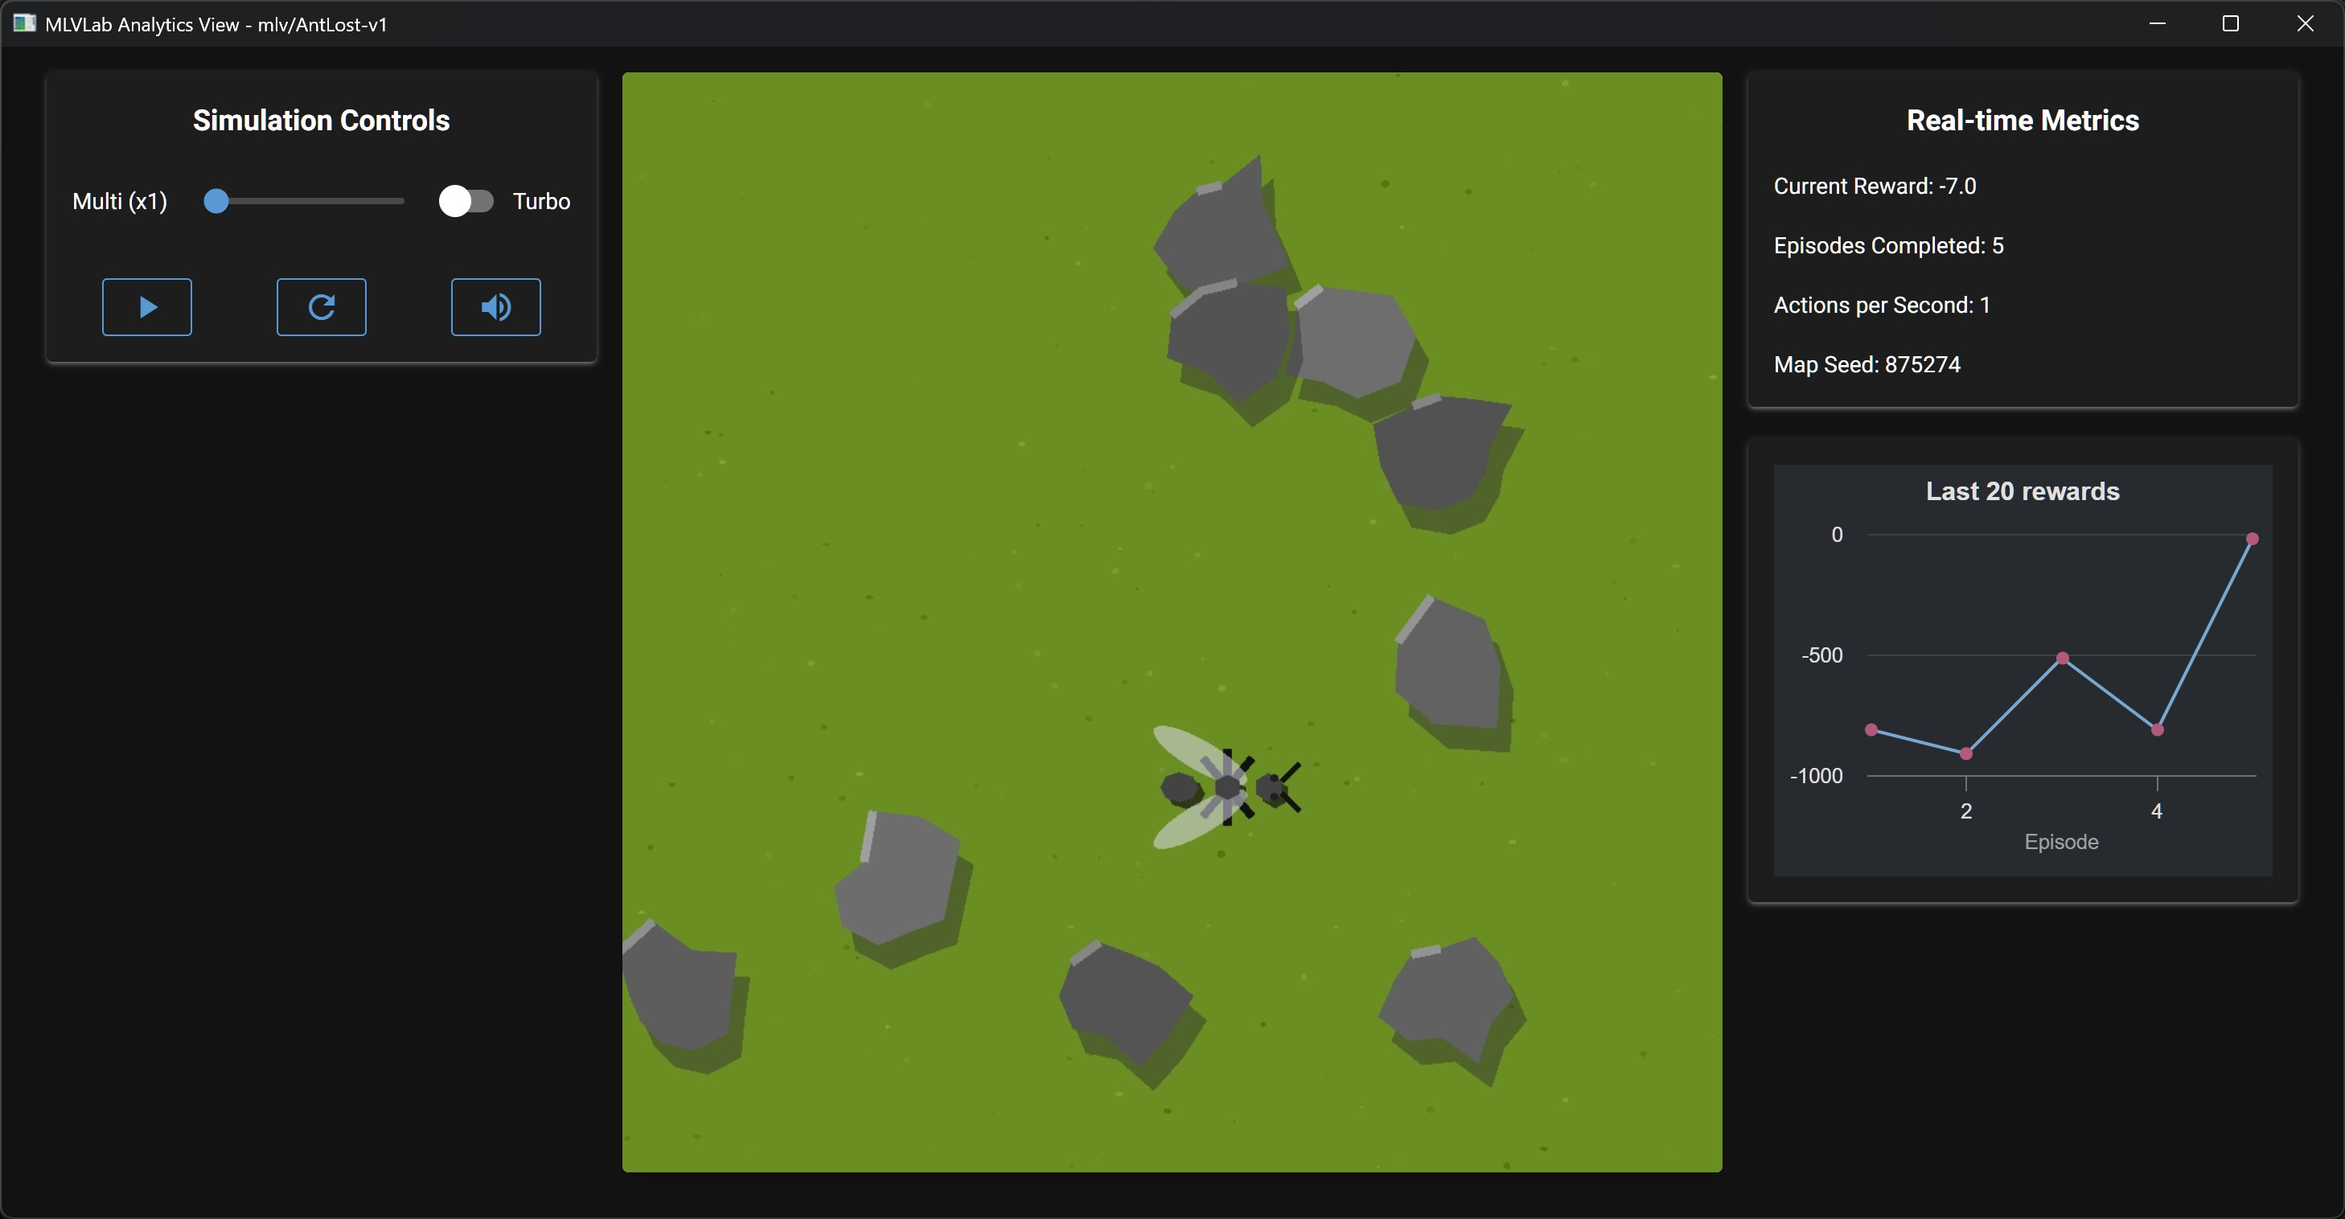
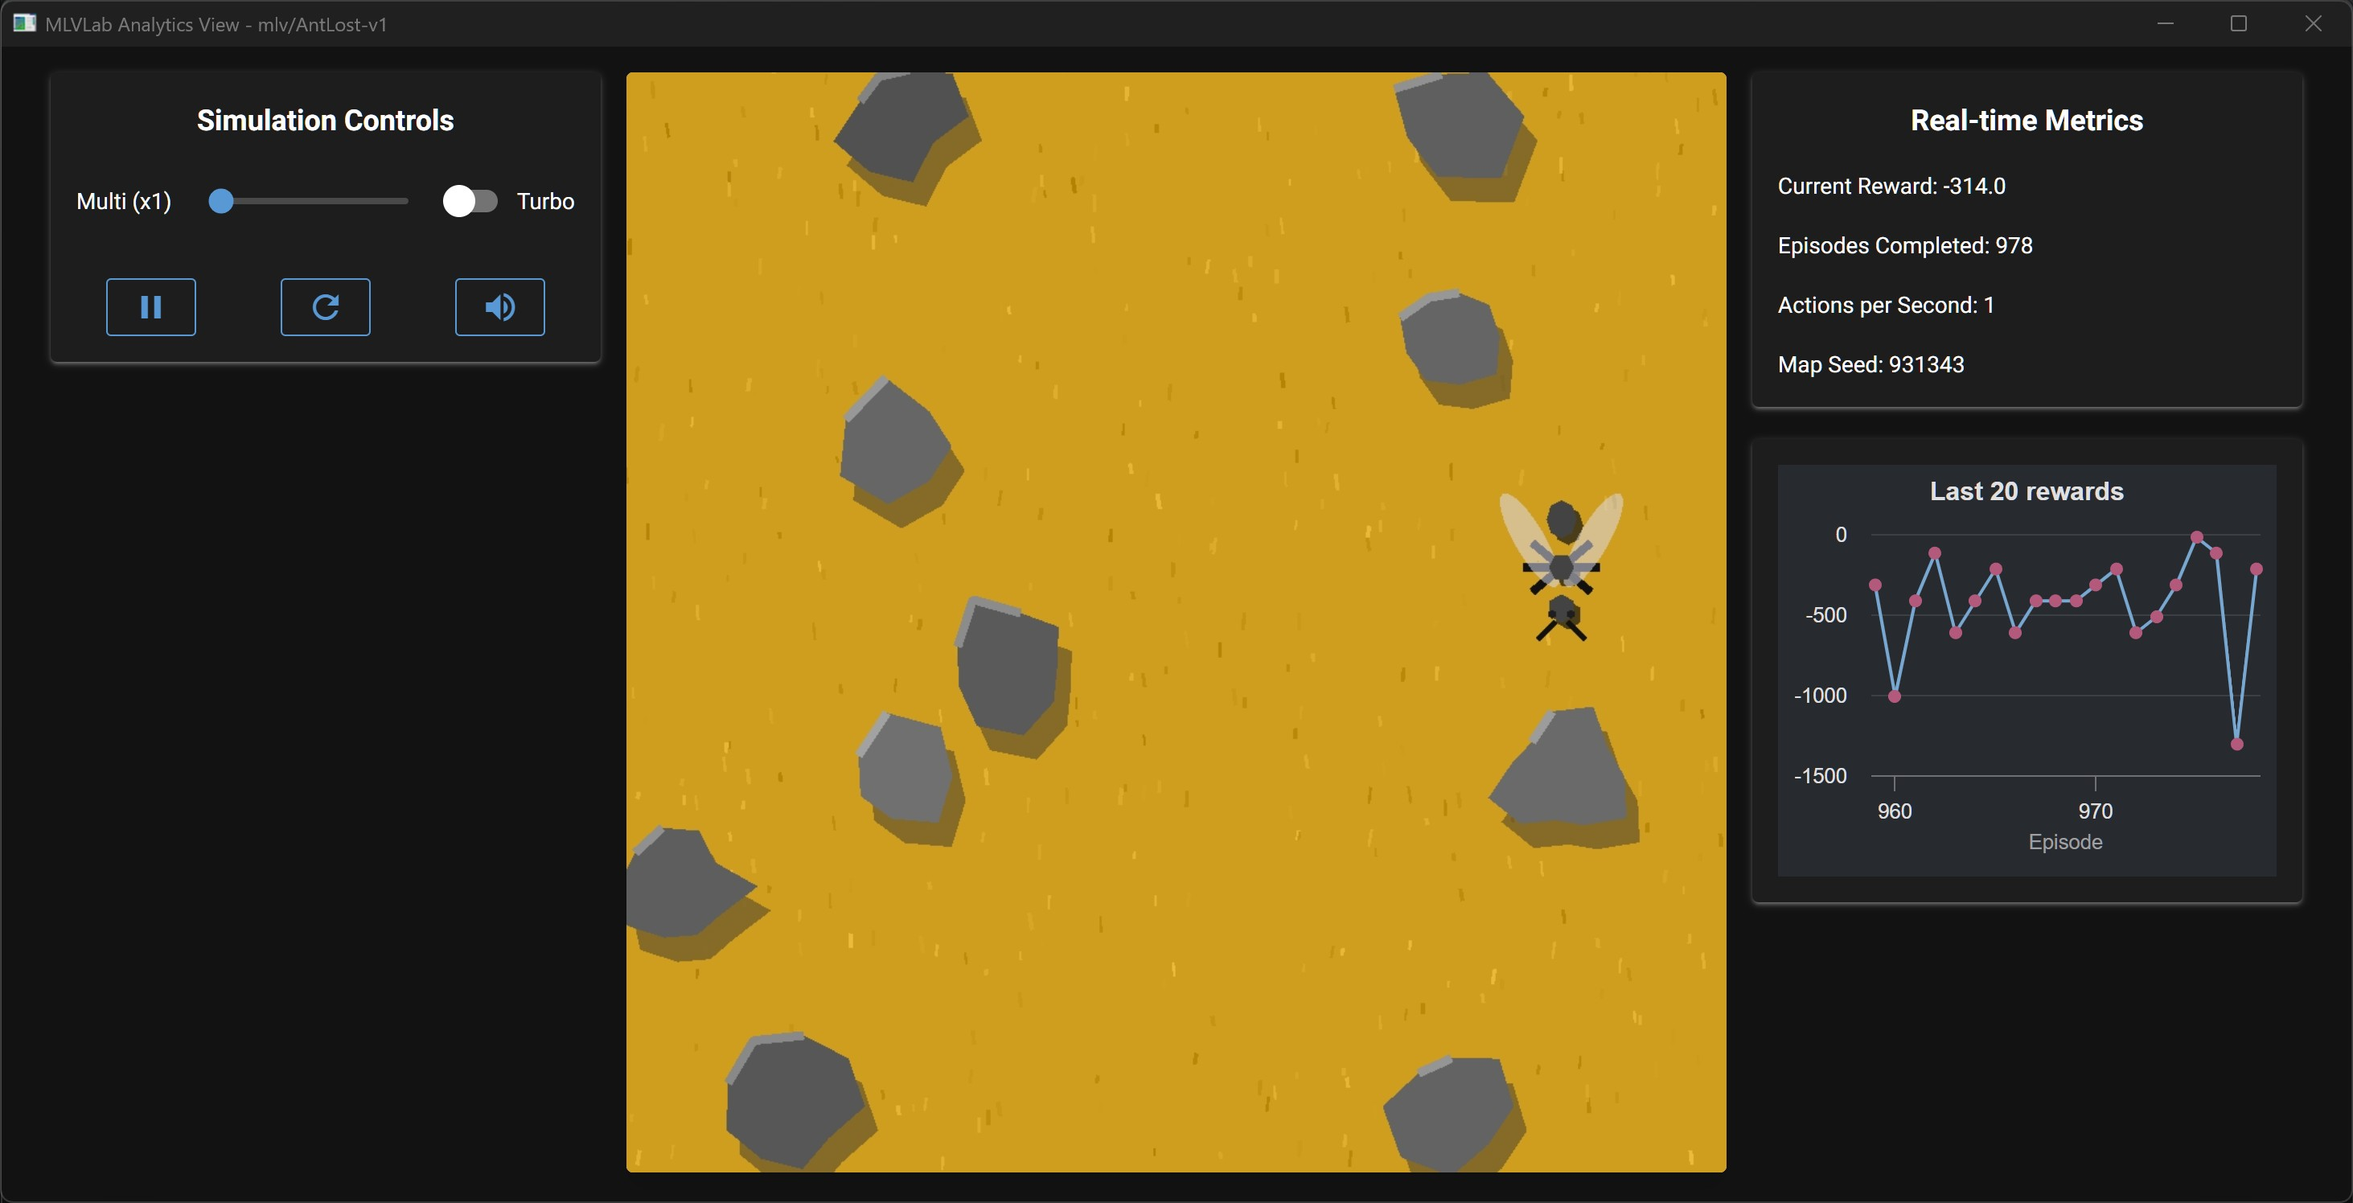
Actualización de la documentación en `README.md` y `README_es.md` para los entornos `AntLost-v1`, `AntScout-v1` y `AntMaze-v1`, mejorando la claridad de las descripciones y añadiendo nuevas imágenes de vista previa. Se realizaron ajustes en los colores de renderizado en `renderer.py` y se modificaro

diff --git a/mlvlab/envs/ant_lost_v1/renderer.py b/mlvlab/envs/ant_lost_v1/renderer.py
@@ -45,11 +45,11 @@ class ArcadeRenderer:
         self.WIDTH = 0
         self.HEIGHT = 0
 
-        # Paleta de colores
-        self.COLOR_GRASS = (107, 142, 35)
+        # Paleta de colores actualizada para un look de "pradera de verano"
+        self.COLOR_GROUND = (207, 158, 30)  # Amarillo Trigo
         self.COLOR_ANT = (67, 67, 67)
         self.COLOR_OBSTACLE = (100, 100, 100)
-        self.COLOR_PARTICLE_DUST = (210, 180, 140)
+        self.COLOR_PARTICLE_DUST = (188, 164, 93)  # Polvo más acorde
 
         # Estado de animación
         self.ant_display_pos = None
@@ -75,6 +75,25 @@ class ArcadeRenderer:
 
         self.arcade = None
 
+    def _initialize(self, game: AntGame, render_mode: str):
+        self._lazy_import_arcade()
+        self.game = game
+        self.WIDTH = game.grid_size * self.CELL_SIZE
+        self.HEIGHT = game.grid_size * self.CELL_SIZE
+        if self.window is None:
+            title = "Ants Saga - Errant Drone - MLVisual®"
+            visible = render_mode == "human"
+            self.window = self.arcade.Window(
+                self.WIDTH, self.HEIGHT, title, visible=visible)
+            if not visible:
+                self.window.set_visible(False)
+            # Usamos el nuevo color de fondo
+            self.arcade.set_background_color(self.COLOR_GROUND)
+
+        self.ant_display_pos = list(game.ant_pos.astype(float))
+        self.ant_current_angle = 0
+        self.initialized = True
+
     def _lazy_import_arcade(self):
         if self.arcade is None:
             try:
@@ -96,7 +115,8 @@ class ArcadeRenderer:
                 self.WIDTH, self.HEIGHT, title, visible=visible)
             if not visible:
                 self.window.set_visible(False)
-            self.arcade.set_background_color(self.COLOR_GRASS)
+            # Usamos el nuevo color de fondo
+            self.arcade.set_background_color(self.COLOR_GROUND)
 
         self.ant_display_pos = list(game.ant_pos.astype(float))
         self.ant_current_angle = 0
@@ -249,20 +269,34 @@ class ArcadeRenderer:
         except AttributeError:
             rng = np.random.RandomState(abs(current_hash) % (2**32))
 
-        for _ in range(self.game.grid_size * self.game.grid_size * 2):
+        # Dibujamos detalles que parecen hierba seca o trigo
+        for _ in range(self.game.grid_size * self.game.grid_size * 4):  # Aumentamos la densidad
             cx = rng.uniform(0, self.WIDTH)
             cy = rng.uniform(0, self.HEIGHT)
-            r = rng.uniform(1, 4)
-            try:
-                shade = rng.integers(-25, 25)
-            except AttributeError:
-                shade = rng.randint(-25, 25)
+            length = rng.uniform(3, 8)
+            angle_deg = rng.uniform(-10, 10)  # Ligera variación del ángulo
+            angle_rad = math.radians(90 + angle_deg)
 
-            mote_color = (max(0, min(255, self.COLOR_GRASS[0]+shade)),
-                          max(0, min(255, self.COLOR_GRASS[1]+shade)),
-                          max(0, min(255, self.COLOR_GRASS[2]+shade)))
-            self.arcade.draw_ellipse_filled(
-                cx, cy, r, r * rng.uniform(0.5, 1.0), mote_color)
+            end_x = cx + math.cos(angle_rad) * length
+            end_y = cy + math.sin(angle_rad) * length
+
+            try:
+                shade = rng.integers(-35, 35)
+                # AQUÍ ESTÁ LA CORRECCIÓN:
+                # Usamos integers() para el nuevo API
+                alpha = rng.integers(150, 220)
+            except AttributeError:
+                shade = rng.randint(-35, 35)
+                # Y randint() como alternativa para el API antiguo
+                alpha = rng.randint(150, 220)
+
+            mote_color = (max(0, min(255, self.COLOR_GROUND[0]+shade)),
+                          max(0, min(255, self.COLOR_GROUND[1]+shade)),
+                          max(0, min(255, self.COLOR_GROUND[2]+shade)),
+                          alpha)  # Alpha para dar profundidad
+
+            self.arcade.draw_line(cx, cy, end_x, end_y,
+                                  mote_color, line_width=rng.uniform(1.0, 2.0))
 
         for obs_x, obs_y in self.game.obstacles:
             cx, cy = self._cell_to_pixel(obs_x, obs_y)

diff --git a/mlvlab/envs/ant_maze_v1/env.py b/mlvlab/envs/ant_maze_v1/env.py
@@ -61,7 +61,7 @@ class AntMazeEnv(gym.Env):
                  render_mode=None,
                  grid_size=15,  # Aumentamos el tamaño por defecto para el laberinto
                  reward_goal=100,
-                 reward_wall=-5,  # La penalización por chocar es menor, ya que es esperable
+                 reward_wall=-10,  # La penalización por chocar es menor, ya que es esperable
                  reward_move=-1,
                  # Flag para activar la funcionalidad AntShift (Punto 7)
                  enable_ant_shift=False

diff --git a/mlvlab/envs/ant_maze_v1/view.py b/mlvlab/envs/ant_maze_v1/view.py
@@ -104,7 +104,6 @@ def main(enable_ant_shift=False):
     # Configuración de la vista interactiva (Punto 3)
     view = AnalyticsView(
         trainer=trainer,
-        title="Dungeons & Pheromones (AntMaze)",
         left_panel=[
             ui.SimulationControls(
                 includes=["speed", "turbo"],

diff --git a/mlvlab/envs/ant_maze_v1/README.md b/mlvlab/envs/ant_maze_v1/README.md
@@ -1,0 +1,168 @@
+# AntMaze-v1 (Dungeons & Pheromones): Usage Guide
+
+[![en](https://img.shields.io/badge/Lang-EN-red.svg)](./README.md)
+[![es](https://img.shields.io/badge/Lang-ES-lightgrey.svg)](./README_es.md)
+
+This file documents the `mlv/AntMaze-v1` environment, also known as **Dungeons & Pheromones**.
+
+<img src="../../../docs/ant_maze_v1/mode_view_en.jpg" alt="view mode" width="100%">
+
+## Description
+
+In `AntMaze`, the student takes control of the learning process. An ant must navigate through a procedurally generated dungeon (maze) to find the exit. The goal is not just to solve the maze, but to understand how manipulating the fundamental hyperparameters of Reinforcement Learning (Alpha, Gamma, Epsilon) affects the agent's behavior and learning speed in real-time.
+
+This simulation is designed to provide an interactive understanding of the exploration vs. exploitation dilemma and the impact of learning rate and discount factor.
+
+---
+
+## Thematic Interpretation
+
+The hyperparameters are themed to match the dungeon scenario:
+
+*   **Alpha (Learning Rate) → Pheromone Intensity:** How strongly the ant reinforces a path after taking it. A high value means rapid adaptation to new information; a low value means gradual learning.
+*   **Gamma (Discount Factor) → Future Vision:** How much the ant values future rewards (the exit) compared to immediate ones. A high value encourages long-term planning, crucial in mazes.
+*   **Epsilon (Exploration Rate) → Bravery (Exploration):** The probability that the ant ignores its knowledge (pheromones) and tries a new random path.
+
+---
+
+## Technical Specifications
+
+### Environment Configuration
+
+The environment can be customized when creating it:
+
+*   `grid_size`: The size of the square dungeon (e.g., 15 for 15x15). Default is 15.
+*   If `grid_size >= 10`, a complex maze is generated using Recursive Backtracking and BFS to ensure a challenging but always valid path.
+*   If `grid_size < 10`, a simpler scenario is generated with random walls.
+*   `enable_ant_shift`: (Boolean) If `True`, activates functionality for the `AntShift` simulation, adding a 5th action.
+
+### Observation Space
+
+```python
+Box(0, GRID_SIZE-1, (2,), int32)
+```
+
+*   **Meaning:** Vector `[x, y]` representing the ant's position.
+
+### Action Space
+
+```python
+Discrete(4)  # Or Discrete(5) if enable_ant_shift=True
+```
+
+*   `0`: Up, `1`: Down, `2`: Left, `3`: Right.
+*   `4`: (AntShift only) Activate map change and Q-Table lock (Key 'L').
+
+---
+
+## Environment Dynamics
+
+### Rewards
+
+*   **`+100`**: For reaching the dungeon exit.
+*   **`-10`**: For hitting a wall.
+*   **`-1`**: For each step taken.
+
+### Episode End
+
+*   **`terminated = True`**: The agent reaches the exit.
+*   **`truncated = True`**: The maximum step limit is reached.
+
+**Note:** If the ant hits a wall, it receives the penalty but **the episode does not end**. The ant remains in its current cell.
+
+### Reset Behavior
+
+When calling `reset()` without `seed`, the current dungeon is preserved and the ant returns to the start. A new dungeon is only generated if a `seed` is provided.
+
+---
+
+## Pheromone Visualization (Debug Mode)
+
+When activating `debug` mode (Show Pheromones) in the interactive view, the learned Q-Table is visualized as a "pheromone trail". The color varies from pale pink (low value) to intense pink (high value), indicating the ant's preferred path.
+
+---
+
+## Interaction (View Mode) - Recommended
+
+The main method to interact with this environment is through `view` mode, which provides real-time controls for hyperparameters.
+
+```bash
+# Start MLVisual shell
+uv run mlv shell
+
+# Launch interactive view
+view AntMaze-v1
+```
+
+In view mode:
+
+1. Start the simulation.
+2. Adjust the Alpha, Gamma, and Epsilon Decay sliders in real-time.
+3. Activate "Debug Mode" to visualize the pheromone trail and observe how changes affect learning.
+
+## Script and Notebook Compatibility
+
+```python
+# Run a random episode in a notebook
+import gymnasium as gym
+import mlvlab # Make sure mlvlab is installed and the environment is registered
+
+# Create a 15x15 maze
+try:
+    env = gym.make("mlv/AntMaze-v1", render_mode="human", grid_size=15)
+    obs, info = env.reset(seed=42)
+    terminated = truncated = False
+
+    while not (terminated or truncated):
+        action = env.action_space.sample()
+        obs, reward, terminated, truncated, info = env.step(action)
+    env.close()
+except gym.error.NameNotFound:
+    print("Error: mlv/AntMaze-v1 not registered.")
+```
+
+```python
+# Tabular training (Q-Table) basic example
+import numpy as np
+import gymnasium as gym
+import mlvlab
+
+try:
+    env = gym.make("mlv/AntMaze-v1", grid_size=15)
+    GRID = int(env.unwrapped.GRID_SIZE)
+    N_S, N_A = GRID * GRID, 4 # We use only the 4 movement actions for learning
+    Q = np.zeros((N_S, N_A), dtype=np.float32)
+
+    def obs_to_state(obs):
+        x, y = int(obs[0]), int(obs[1])
+        return y * GRID + x
+
+    # Hyperparameters
+    alpha, gamma, eps = 0.1, 0.95, 1.0
+    eps_decay = 0.999
+
+    for ep in range(500):
+        obs, info = env.reset()
+        s = obs_to_state(obs)
+        done = False
+        while not done:
+            if np.random.rand() < eps:
+                a = np.random.randint(N_A)
+            else:
+                a = int(Q[s].argmax())
+
+            obs2, r, term, trunc, info = env.step(a)
+            s2 = obs_to_state(obs2)
+
+            # Q-Learning update rule
+            Q[s, a] = (1 - alpha) * Q[s, a] + alpha * (r + gamma * Q[s2].max())
+            s = s2
+            done = term or trunc
+
+        # Epsilon decay
+        eps = max(0.01, eps * eps_decay)
+
+    env.close()
+except gym.error.NameNotFound:
+    print("Error: mlv/AntMaze-v1 not registered.")
+```

diff --git a/docs/README_es.md b/docs/README_es.md
@@ -87,8 +87,9 @@ MLV-Lab> docs AntScout-v1
 
 | Nombre | Entorno | Saga | Baseline |Detalles | Vista Previa |
 | -------| --------| ---- | -------- | ------- | :----------: |
-| `AntLost-v1`<br><sup>`mlv/AntLost-v1`</sup> | Zángano Errante  | 🐜 Hormigas | Aleatorio | [README.md](/mlvlab/envs/ant_lost_v1/README_es.md) | <a href="/mlvlab/envs/ant_lost_v1/README_es.md"><img src="./ant_lost_v1/mode_play.jpg" alt="play mode" width="50px"></a> |
-| `AntScout-v1`<br><sup>`mlv/AntScout-v1`</sup> | Exploradora Vigía | 🐜 Hormigas | Q-Learning | [README.md](/mlvlab/envs/ant_scout_v1/README_es.md) | <a href="/mlvlab/envs/ant_scout_v1/README_es.md"><img src="./ant_scout_v1/mode_play.jpg" alt="modo play" width="50px"></a> |
+| `AntLost-v1`<br><sup>`mlv/AntLost-v1`</sup> | Zángano <br> Errante  | 🐜 Hormigas | Aleatorio | [README.md](/mlvlab/envs/ant_lost_v1/README_es.md) | <a href="/mlvlab/envs/ant_lost_v1/README_es.md"><img src="./ant_lost_v1/mode_play.jpg" alt="play mode" width="50px"></a> |
+| `AntScout-v1`<br><sup>`mlv/AntScout-v1`</sup> | Exploradora <br> Vigía | 🐜 Hormigas | Q-Learning | [README.md](/mlvlab/envs/ant_scout_v1/README_es.md) | <a href="/mlvlab/envs/ant_scout_v1/README_es.md"><img src="./ant_scout_v1/mode_play.jpg" alt="modo play" width="50px"></a> |
+| `AntMaze-v1`<br><sup>`mlv/AntMaze-v1`</sup> | Feromonas y <br> Mazmorras | 🐜 Ants | Q-Learning | [README.md](/mlvlab/envs/ant_maze_v1/README_es.md) | <a href="/mlvlab/envs/ant_maze_v1/README.md"><img src="./ant_maze_v1/mode_play.jpg" alt="play mode" width="50px"></a> |
 
 ---
 

diff --git a/README.md b/README.md
@@ -87,8 +87,9 @@ MLV-Lab> exit
 
 | Name | Environment | Saga | Baseline | Details | Preview |
 | -----| ----------- | ---- | -------- | ------- | :-----: |
-| `AntLost-v1`<br><sup>`mlv/AntLost-v1`</sup> | Errant Drone  | 🐜 Ants | Random | [README.md](/mlvlab/envs/ant_lost_v1/README.md) | <a href="/mlvlab/envs/ant_lost_v1/"><img src="./docs/ant_lost_v1/mode_play.jpg" alt="play mode" width="50px"></a> |
-| `AntScout-v1`<br><sup>`mlv/AntScout-v1`</sup> | Lookout Scout  | 🐜 Ants | Q-Learning | [README.md](/mlvlab/envs/ant_scout_v1/README.md) | <a href="/mlvlab/envs/ant_scout_v1/"><img src="./docs/ant_scout_v1/mode_play.jpg" alt="play mode" width="50px"></a> |
+| `AntLost-v1`<br><sup>`mlv/AntLost-v1`</sup> | Errant <br> Drone  | 🐜 Ants | Random | [README.md](/mlvlab/envs/ant_lost_v1/README.md) | <a href="/mlvlab/envs/ant_lost_v1/README.md"><img src="./docs/ant_lost_v1/mode_play.jpg" alt="play mode" width="50px"></a> |
+| `AntScout-v1`<br><sup>`mlv/AntScout-v1`</sup> | Lookout <br> Scout  | 🐜 Ants | Q-Learning | [README.md](/mlvlab/envs/ant_scout_v1/README.md) | <a href="/mlvlab/envs/ant_scout_v1/README.md"><img src="./docs/ant_scout_v1/mode_play.jpg" alt="play mode" width="50px"></a> |
+| `AntMaze-v1`<br><sup>`mlv/AntMaze-v1`</sup> | Dungeons & <br> Pheromones | 🐜 Ants | Q-Learning | [README.md](/mlvlab/envs/ant_maze_v1/README.md) | <a href="/mlvlab/envs/ant_maze_v1/README.md"><img src="./docs/ant_maze_v1/mode_play.jpg" alt="play mode" width="50px"></a> |
 
 ---
 

diff --git a/mlvlab/envs/ant_maze_v1/README_es.md b/mlvlab/envs/ant_maze_v1/README_es.md
@@ -1,12 +1,11 @@
-# AntMaze-v1 (Dungeons & Pheromones): Guía de Uso
+# AntMaze-v1 (Feromonas y Mazmorras): Guía de Uso
 
 [![en](https://img.shields.io/badge/Lang-EN-lightgrey.svg)](./README.md)
 [![es](https://img.shields.io/badge/Lang-ES-red.svg)](./README_es.md)
 
 Este archivo documenta el entorno `mlv/AntMaze-v1`, también conocido como **Dungeons & Pheromones**.
 
-<!-- <img src="../../../docs/ant_maze_v1/mode_view_es.jpg" alt="view mode" width="100%"> -->
-*(Imagen de referencia pendiente)*
+<img src="../../../docs/ant_maze_v1/mode_view_es.jpg" alt="view mode" width="100%">
 
 ## Descripción
 
@@ -100,24 +99,6 @@ En el modo view:
 1. Inicia la simulación.
 2. Ajusta los sliders de Alpha, Gamma y Epsilon Decay en tiempo real.
 3. Activa el "Modo Debug" para visualizar el rastro de feromonas y observa cómo los cambios afectan el aprendizaje.
-    
-## Funcionalidad Avanzada
-
-```bash
-# Lanzar la vista en modo AntShift
-view AntMaze-v1 --kwargs '{"enable_ant_shift": true}'
-```
-
-```bash
-# Jugar interactivamente (usando controles de teclado)
-play AntMaze-v1
-
-# Entrenar un agente con parámetros por defecto en una semilla específica
-train AntMaze-v1 --seed 42
-
-# Entrenar en una cuadrícula más grande
-train AntMaze-v1 --kwargs '{"grid_size": 25}'
-```
 
 ## Compatibilidad con Scripts y Notebooks
 

diff --git a/mlvlab/envs/ant_scout_v1/README_es.md b/mlvlab/envs/ant_scout_v1/README_es.md
@@ -1,4 +1,4 @@
-# AntScout-v1: Guía de Uso
+# AntScout-v1 (Exploradora Vigía): Guía de Uso
 
 [![en](https://img.shields.io/badge/Lang-EN-lightgrey.svg)](./README.md)
 [![es](https://img.shields.io/badge/Lang-ES-red.svg)](./README_es.md)

diff --git a/mlvlab/envs/ant_lost_v1/README_es.md b/mlvlab/envs/ant_lost_v1/README_es.md
@@ -1,4 +1,4 @@
-# AntLost-v1: Guía de Uso
+# AntLost-v1 (Zángano Errante): Guía de Uso
 
 [![en](https://img.shields.io/badge/Lang-EN-lightgrey.svg)](./README.md)
 [![es](https://img.shields.io/badge/Lang-ES-red.svg)](./README_es.md)

diff --git a/mlvlab/envs/ant_scout_v1/README.md b/mlvlab/envs/ant_scout_v1/README.md
@@ -1,4 +1,4 @@
-# AntScout-v1: Usage Guide
+# AntScout-v (Lookout Scout): Usage Guide
 
 [![en](https://img.shields.io/badge/Lang-EN-red.svg)](./README.md)
 [![es](https://img.shields.io/badge/Lang-ES-lightgrey.svg)](./README_es.md)

diff --git a/mlvlab/envs/ant_lost_v1/README.md b/mlvlab/envs/ant_lost_v1/README.md
@@ -1,4 +1,4 @@
-# AntLost-v1: Usage Guide
+# AntLost-v1 (Errant Drone): Usage Guide
 
 [![en](https://img.shields.io/badge/Lang-EN-red.svg)](./README.md)
 [![es](https://img.shields.io/badge/Lang-ES-lightgrey.svg)](./README_es.md)
